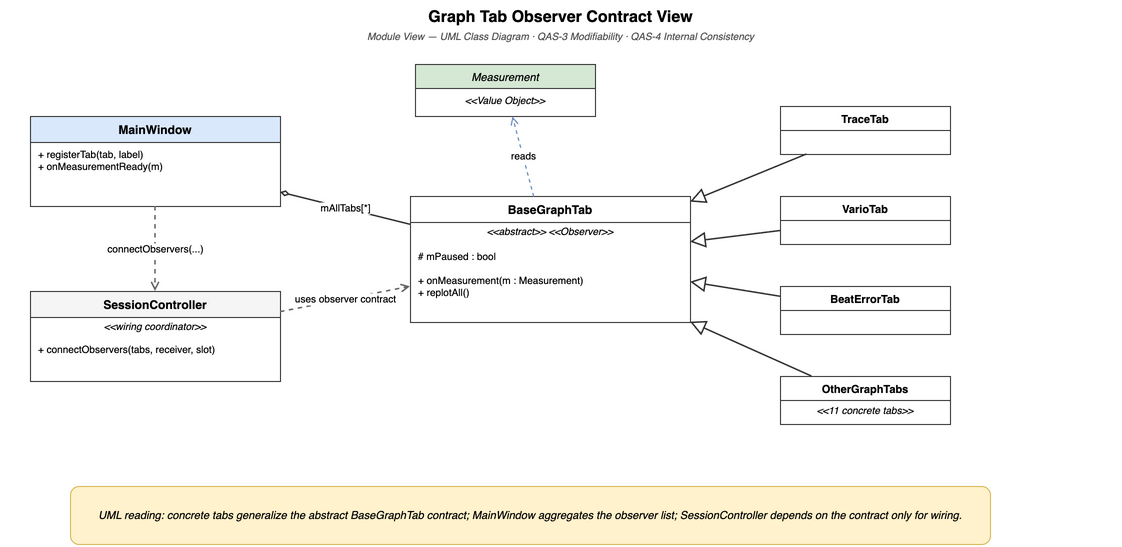
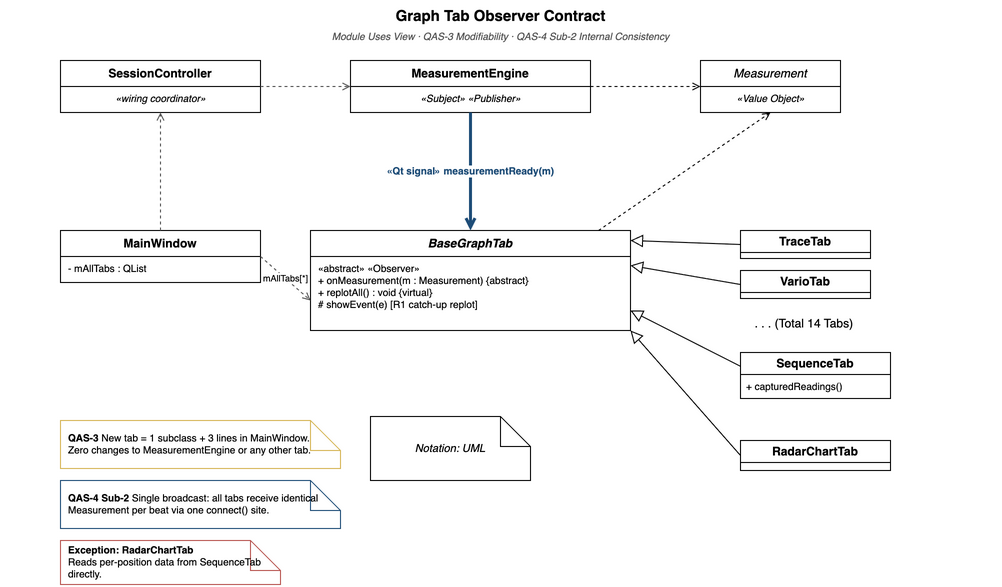
docs(m3): simplify observer contract and downsampling structure diagrams
- Redraw view2-graph-tab-observer-contract.drawio in plain UML style
  (white boxes, black borders, no color coding, add Measurement arrows)
- Redraw view-longtermtab-downsampling-structure.drawio in plain UML style
  (remove color/dashed borders, use stereotypes only, add Legend)
- Update PNG export for observer contract view

diff --git a/docs/milestone3/final/references/views/view-decomposition-graph-tab.md b/docs/milestone3/final/references/views/view-decomposition-graph-tab.md
@@ -1,6 +1,9 @@
 # Graph Tab Module Uses View
 
-This view decomposes the Presentation layer into its internal components, focusing on the `BaseGraphTab` interface and the `MainWindow` tab registry. It answers: "What must a developer implement to add a new graph tab?"
+This view decomposes the Presentation layer into its internal components, focusing on the `BaseGraphTab` interface and the `MainWindow` tab registry. It answers two questions:
+
+- **QAS-3 (Extensibility):** "What must a developer implement to add a new graph tab?"
+- **QAS-4 Sub-2 (Reliability):** "How does the architecture guarantee all 14 tabs display consistent values derived from a single data source?"
 
 [Open draw.io source](../../assets/view2-graph-tab-observer-contract.drawio)
 
@@ -16,6 +19,7 @@ This view decomposes the Presentation layer into its internal components, focusi
 - `isVisible()` guard inside `onMeasurement()` skips `replot()` for non-visible tabs (ADR-002 R1), reducing replot/beat from 8.22 to 1.20 (↓85%).
 - `showEvent()` triggers `replotAll()` for a catch-up frame when the tab becomes visible.
 - No direct reference to Signal Processing or Acquisition layers.
+- **QAS-4 Sub-2 (Reliability):** Every tab subscribes to the same `MeasurementEngine::measurementReady` signal via `Qt::QueuedConnection`. No tab holds a private or duplicate data source — deviation between any two tabs displaying the same metric is 0 at all times.
 
 #### MainWindow (tab registry + results observer)
 - Owns `mAllTabs` and `registerTab()` — single point of tab registration.
@@ -26,26 +30,27 @@ This view decomposes the Presentation layer into its internal components, focusi
 - Stores observer list from `connectObservers()`; applies `connect()` in `startSourceThread()`.
 - Not in the per-beat data path after wiring completes.
 - `MeasurementEngine` has zero compile-time knowledge of tabs — emits signal only; `SessionController` wires the abstract `onMeasurement` slot → Subject and Observer decoupled at build time.
+- **QAS-4 Sub-2 (Reliability):** The single `connect()` loop in `startSourceThread()` is the only wiring site for all 14 tabs. Combined with `IAudioSource` (ADR-005), all three input modes (mic/WAV/Sim) enter the DSP chain through this identical path, ensuring no mode-specific divergence upstream of the tabs.
 
 #### Concrete Tab Implementations (14 tabs)
 Each extends `BaseGraphTab`:
 
-| Group | Tab Class | Display |
-|-------|-----------|---------|
-| Signal / Scope | `TraceTab` | Raw waveform trace |
-| | `RateScopeTab` | Rate deviation scope |
-| | `SweepScopeTab` | Sweep oscilloscope |
-| | `FilterScopeTab` | Filtered signal scope |
-| | `BeatNoiseScopeTab` | Beat noise scope |
-| | `SoundPrintTab` | Acoustic fingerprint |
-| Measurement | `VarioTab` | Rate deviation (s/d) |
-| | `BeatErrorTab` | Beat error (ms) |
-| | `EscapementTab` | Escapement analysis |
-| | `LongTermTab` | Long-term rate trend |
-| | `SequenceTab` | Beat sequence |
-| Analysis / AI | `SpectrogramTab` | Frequency spectrogram |
-| | `WaveformCompTab` | Waveform comparison |
-| | `RadarChartTab` | Multi-metric radar |
+| Group | Tab Class | Display | Note |
+|-------|-----------|---------|------|
+| Signal / Scope | `TraceTab` | Raw waveform trace | |
+| | `RateScopeTab` | Rate deviation scope | |
+| | `SweepScopeTab` | Sweep oscilloscope | |
+| | `FilterScopeTab` | Filtered signal scope | |
+| | `BeatNoiseScopeTab` | Beat noise scope | |
+| | `SoundPrintTab` | Acoustic fingerprint | |
+| Measurement | `VarioTab` | Rate deviation (s/d) | |
+| | `BeatErrorTab` | Beat error (ms) | |
+| | `EscapementTab` | Escapement analysis | |
+| | `LongTermTab` | Long-term rate trend | |
+| | `SequenceTab` | Beat sequence | |
+| Analysis / AI | `SpectrogramTab` | Frequency spectrogram | |
+| | `WaveformCompTab` | Waveform comparison | |
+| | `RadarChartTab` | Multi-metric radar | ⚠ Exception: reads per-position data directly from `SequenceTab::capturedReadings()`, not via `measurementReady`. This is the only inter-tab dependency in the system and partially bypasses the QAS-4 Sub-2 single-source principle for this tab. |
 
 Adding a new tab = 1 new subclass + 3 lines in `MainWindow` → zero changes to `MeasurementEngine` or any other tab (ADR-006).
 
@@ -74,11 +79,16 @@ MeasurementEngine
     ->> ResultsSummary::onMeasurementReady(m)
 ```
 
+**QAS-4 Sub-2 (Internal Consistency):** The broadcast pattern above ensures every tab in `mAllTabs` receives the identical `Measurement` object within the same Qt event loop cycle. No tab reads from `MeasurementEngine` directly or maintains a secondary data path — the single `connect()` site in `SessionController` is the only wiring path (ADR-006, ADR-005).
+
+Exception: `RadarChartTab` supplements beat data with position-level readings pulled directly from `SequenceTab::capturedReadings()`. This is the only inter-tab dependency in the system and does not affect the core measurement consistency guarantee for the remaining 13 tabs.
+
 Measured results: → [EXP-03: Observer Pattern Compliance](../experiments/exp-03-extensibility-observer-pattern.md)
 
 ## Related ADRs
 
 - [ADR-006: BaseGraphTab Observer Pattern](../adr/ADR-006-basegraphtab-observer-pattern.md) — rationale for the `BaseGraphTab` interface and `registerTab()` registration pattern
+- [ADR-005: IAudioSource Dependency Inversion](../adr/ADR-005-p1-iaudiosource-dependency-inversion.md) — ensures all three input modes share the identical `SessionController` wiring path; prerequisite for QAS-4 Sub-2 single-source guarantee upstream of this view
 - [ADR-002: R1 Lazy Rendering](../adr/ADR-002-r1-lazy-rendering.md) — `isVisible()` guard in `onMeasurement()`; `showEvent()` catch-up via `replotAll()`
 - [ADR-004: R2 Timer-Decoupled Rendering](../adr/ADR-004-r2-timer-decoupled-rendering.md) — conditional replacement for ADR-002 if EXP-04 confirms R1 insufficient
 